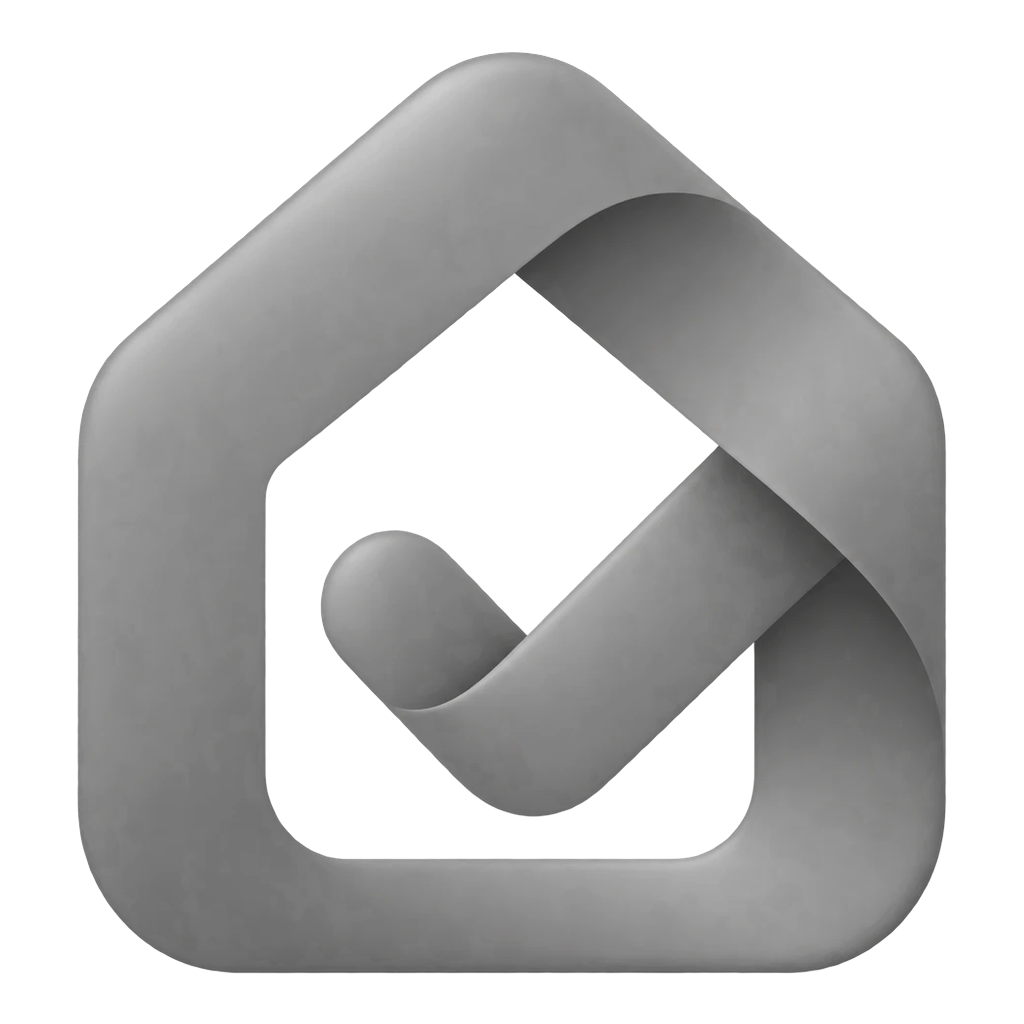
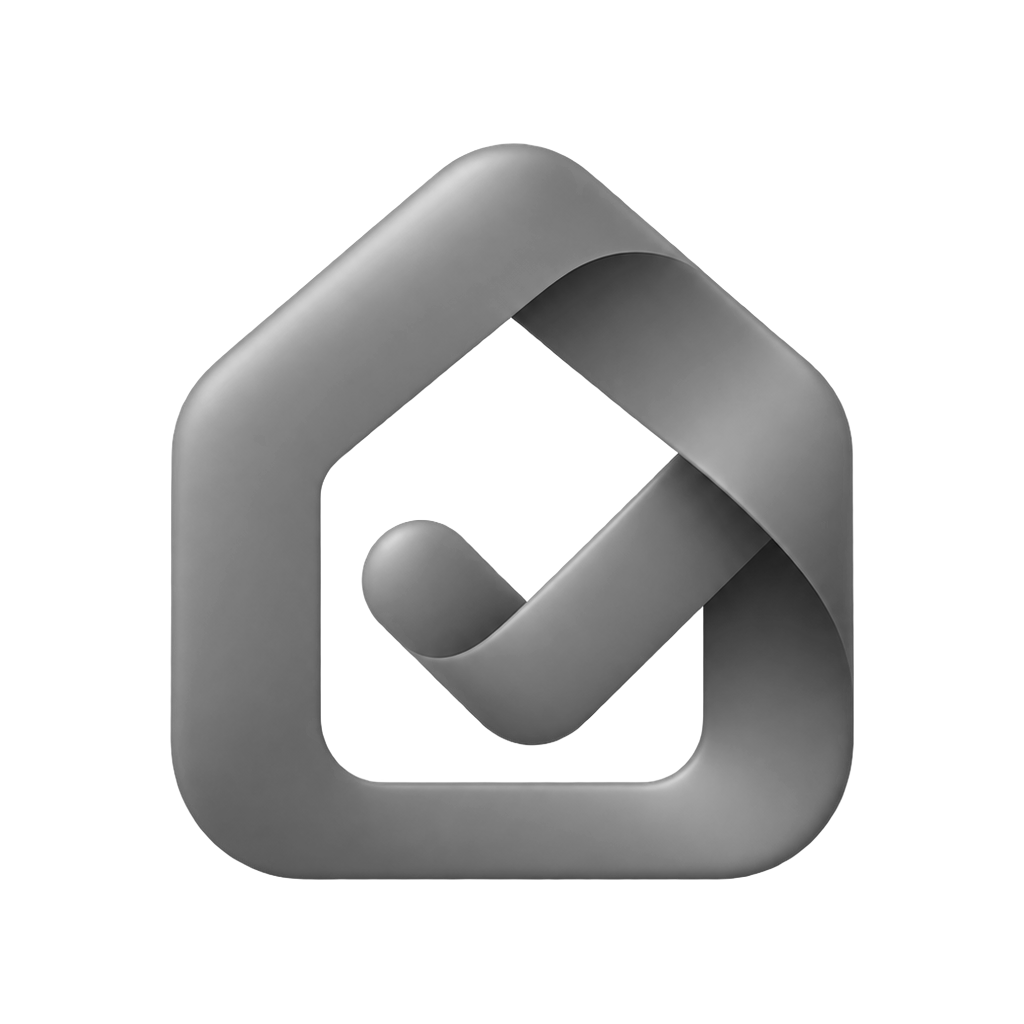
아이콘·스플래시: 크기를 줄이고 다크도 초록으로
아이콘 안의 집이 타일의 90%를 차지해 혼자만 커 보였다. 0.72로 줄였다
(원본 렌더의 부드러운 그림자 때문에 alpha>0 bbox가 실제 모양보다 훨씬
크게 잡혀서, alpha>=120인 화소로만 경계를 잡는다).

다크 변형에 은색 로고를 썼던 것을 초록으로 되돌린다. 은색은 다크모드용이
아니라 메탈 변형이었다. 브랜드 색은 배경이 어두워도 그대로다. 틴티드만
회색조로 남긴다 — iOS가 사용자가 고른 색을 입히는 용도라 밝기만 있어야 한다.

스플래시는 여백을 빼고 imageWidth를 280으로 올렸다. 홈 화면에서 앱을 열면
iOS가 아이콘을 화면 크기로 확대한 뒤 스플래시로 넘기는데, 로고가 283pt에서
133pt로 뚝 줄어 스플래시가 두 번 뜨는 것처럼 보였다. 이제 여백이 없어
imageWidth가 곧 로고 크기고, 확대가 끝나는 크기와 맞물린다.

시작 화면의 집 아이콘도 로고로 바꾼다.

diff --git a/apps/mobile/app/index.tsx b/apps/mobile/app/index.tsx
@@ -1,6 +1,6 @@
 import { Redirect, useRouter } from "expo-router";
 import { View } from "react-native";
-import { BottomCTA, IconTile, Screen, Sub, T } from "@/components/ui";
+import { BottomCTA, Logo, Screen, Sub, T } from "@/components/ui";
 import { useAppState } from "@/store/appState";
 import { space } from "@/theme/tokens";
 
@@ -13,7 +13,7 @@ export default function Start() {
   return (
     <Screen scroll={false}>
       <View style={{ flex: 1, justifyContent: "center", gap: space.xl, paddingBottom: 96 }}>
-        <IconTile name="house" tone="primary" size={64} />
+        <Logo size={64} />
         <T variant="display">내 조건에 맞는{"\n"}공공주택 공고만{"\n"}보여드릴게요</T>
         <Sub variant="body" style={{ maxWidth: 320 }}>
           나이·소득·자산을 입력하면 LH 공고 중 조건이 맞는 것과 예상 주거비를 바로 계산해요. 입력한 정보는 이 기기에만 저장됩니다.
